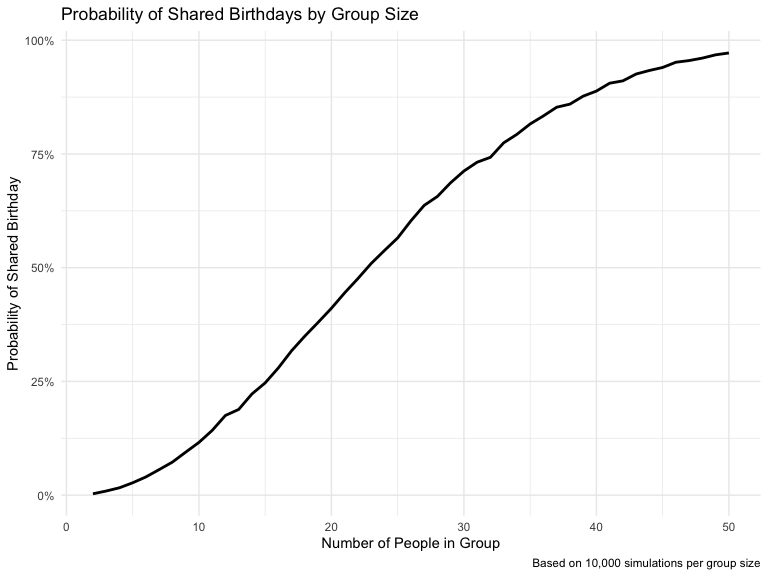
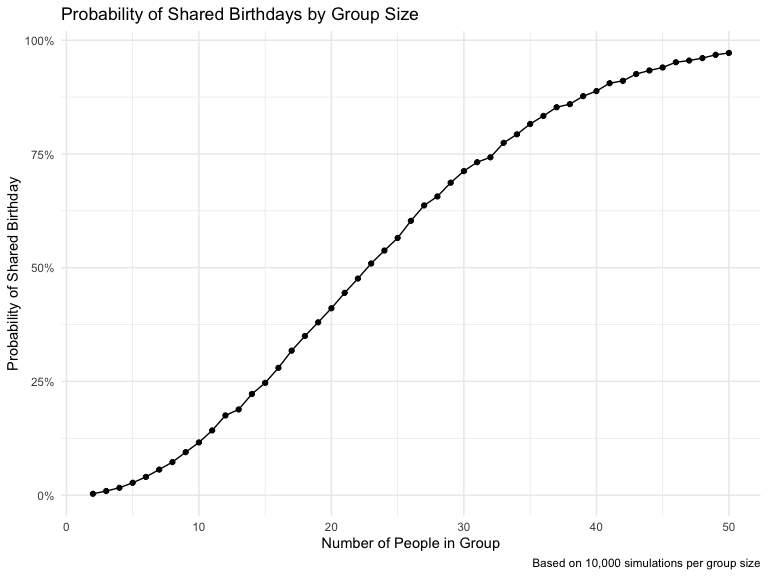
birthday problem: create plot revised

diff --git a/p8105_hw5_yg2964.md b/p8105_hw5_yg2964.md
@@ -33,7 +33,8 @@ Create visualization
 ``` r
 sim_res |>
   ggplot(aes(x = n, y = probability)) +
-  geom_line(size = 1) +    # Removed color specification to use viridis default
+  geom_line() +
+  geom_point() +
   labs(
     title = "Probability of Shared Birthdays by Group Size",
     x = "Number of People in Group",
@@ -59,7 +60,6 @@ Function to generate data and perform t-test
 
 ``` r
 alpha <- 0.05
-# Create function for t-test
 t_test_sim <- function(mu) {
   sample_data <- rnorm(30, mean = mu, sd = 5)
   t.test(sample_data, mu = 0) |>
